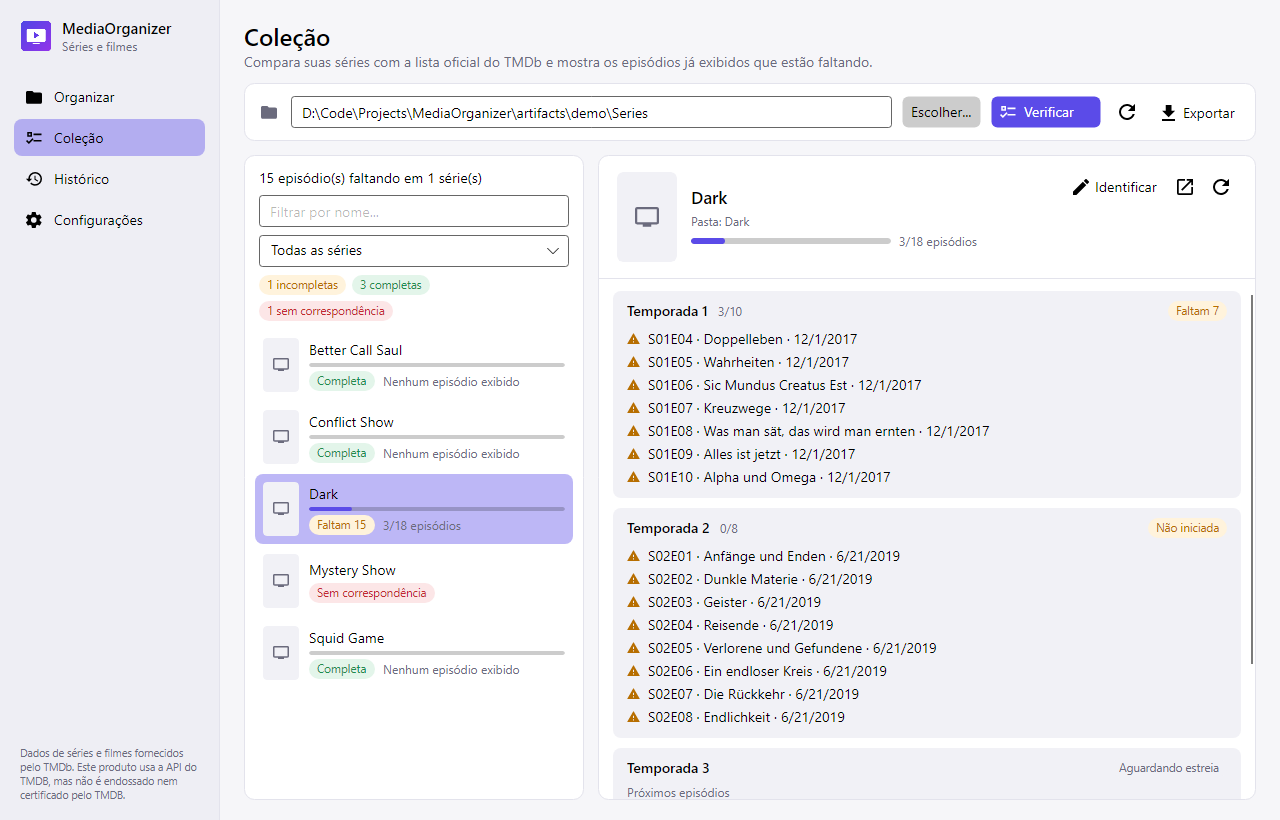
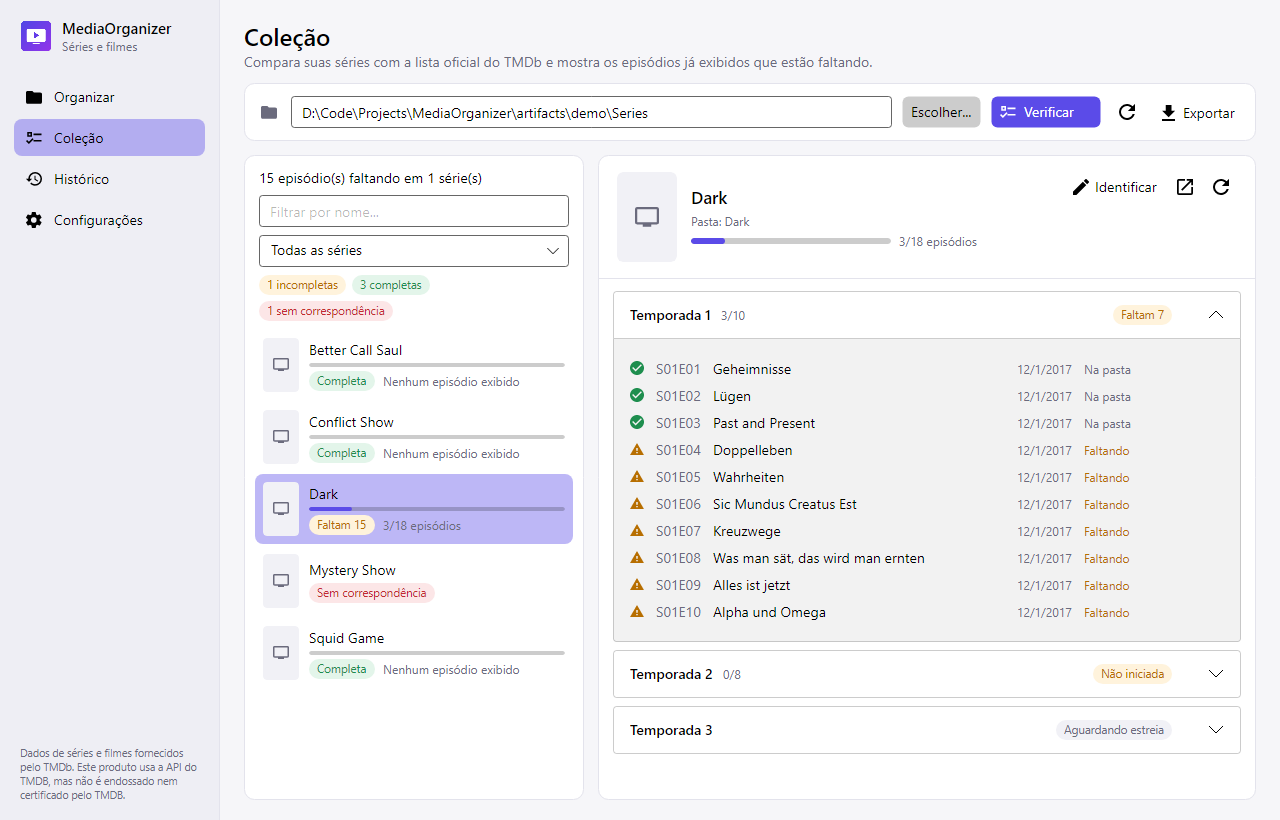
docs: captura e texto da Coleção com a lista completa de episódios

diff --git a/README.md b/README.md
@@ -127,7 +127,7 @@ Na próxima vez que você analisar a mesma pasta, as séries que não mudaram ap
 
 ### Coleção: episódios faltando
 
-Na tela **Coleção**, clique em **Verificar** (`F5`). Para cada série identificada, o app compara os episódios da pasta com a lista oficial do TMDb e mostra, por temporada, o que já foi exibido e está faltando — e os próximos lançamentos. Use **↻** para buscar novidades de séries em exibição e **Exportar** para salvar a lista em CSV (abre no Excel) ou texto.
+Na tela **Coleção**, clique em **Verificar** (`F5`). Para cada série identificada, o app compara os episódios da pasta com a lista oficial do TMDb e lista, por temporada, **todos** os episódios com a situação de cada um — na pasta, faltando ou ainda não exibido. A primeira temporada abre expandida; clique nas outras para ver os detalhes. Use **↻** para buscar novidades de séries em exibição e **Exportar** para salvar a lista em CSV (abre no Excel) ou texto.
 
 <img src="docs/images/collection.png" alt="Tela Coleção" width="640" />
 
